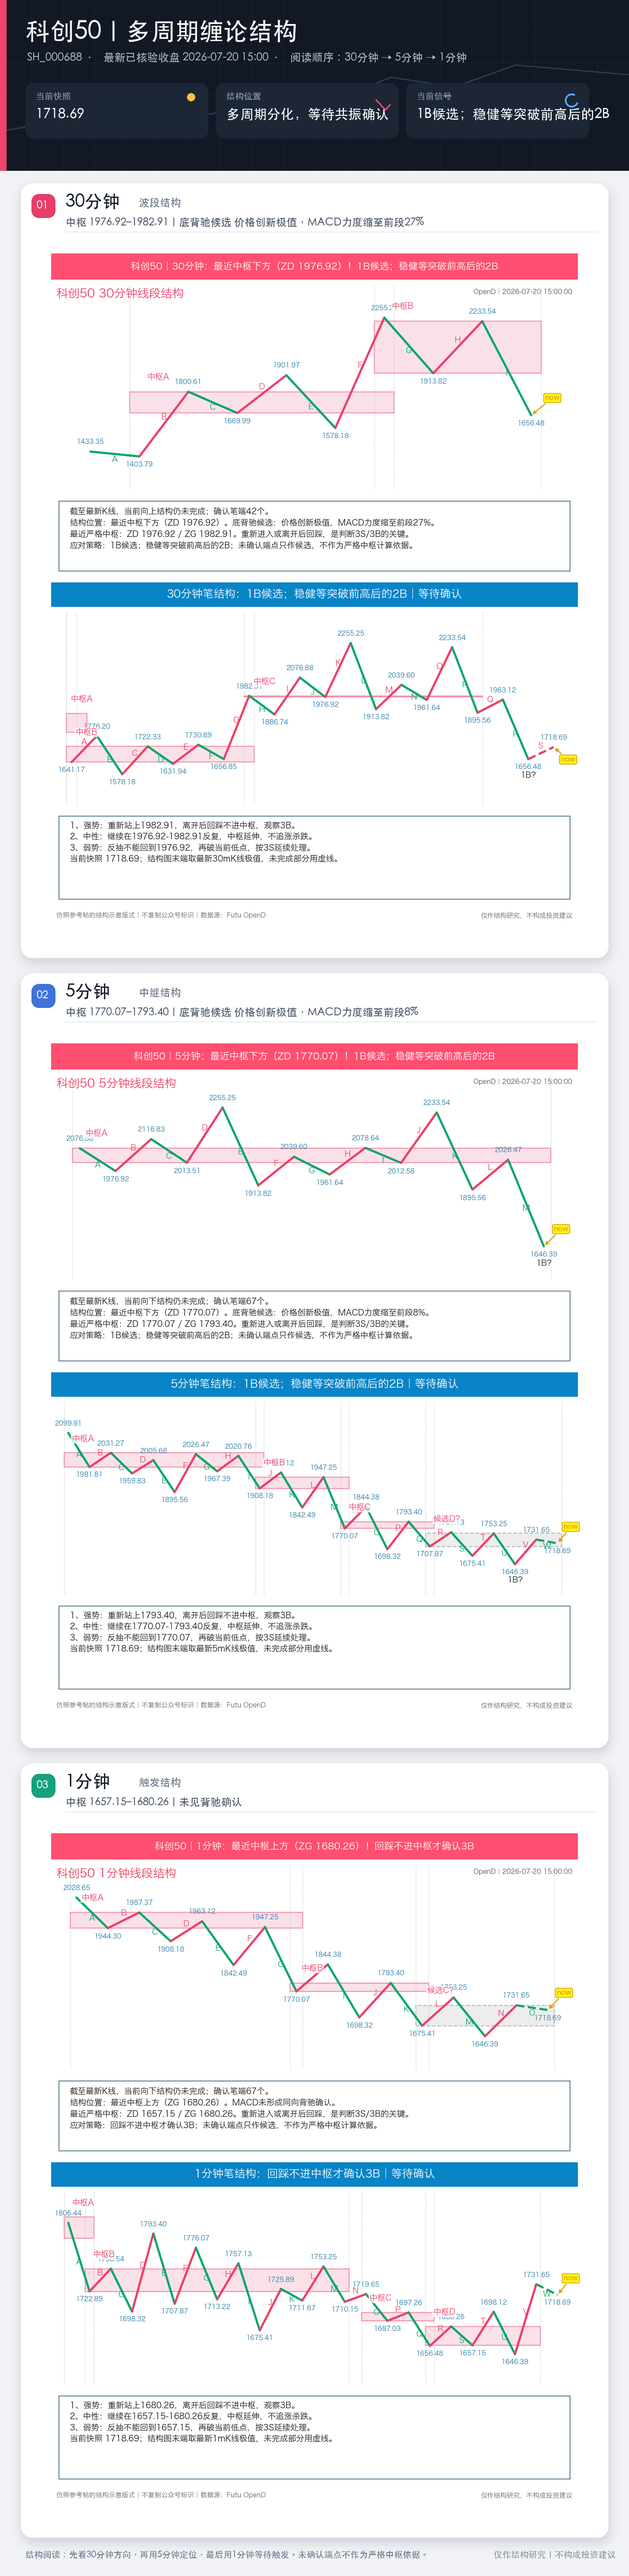
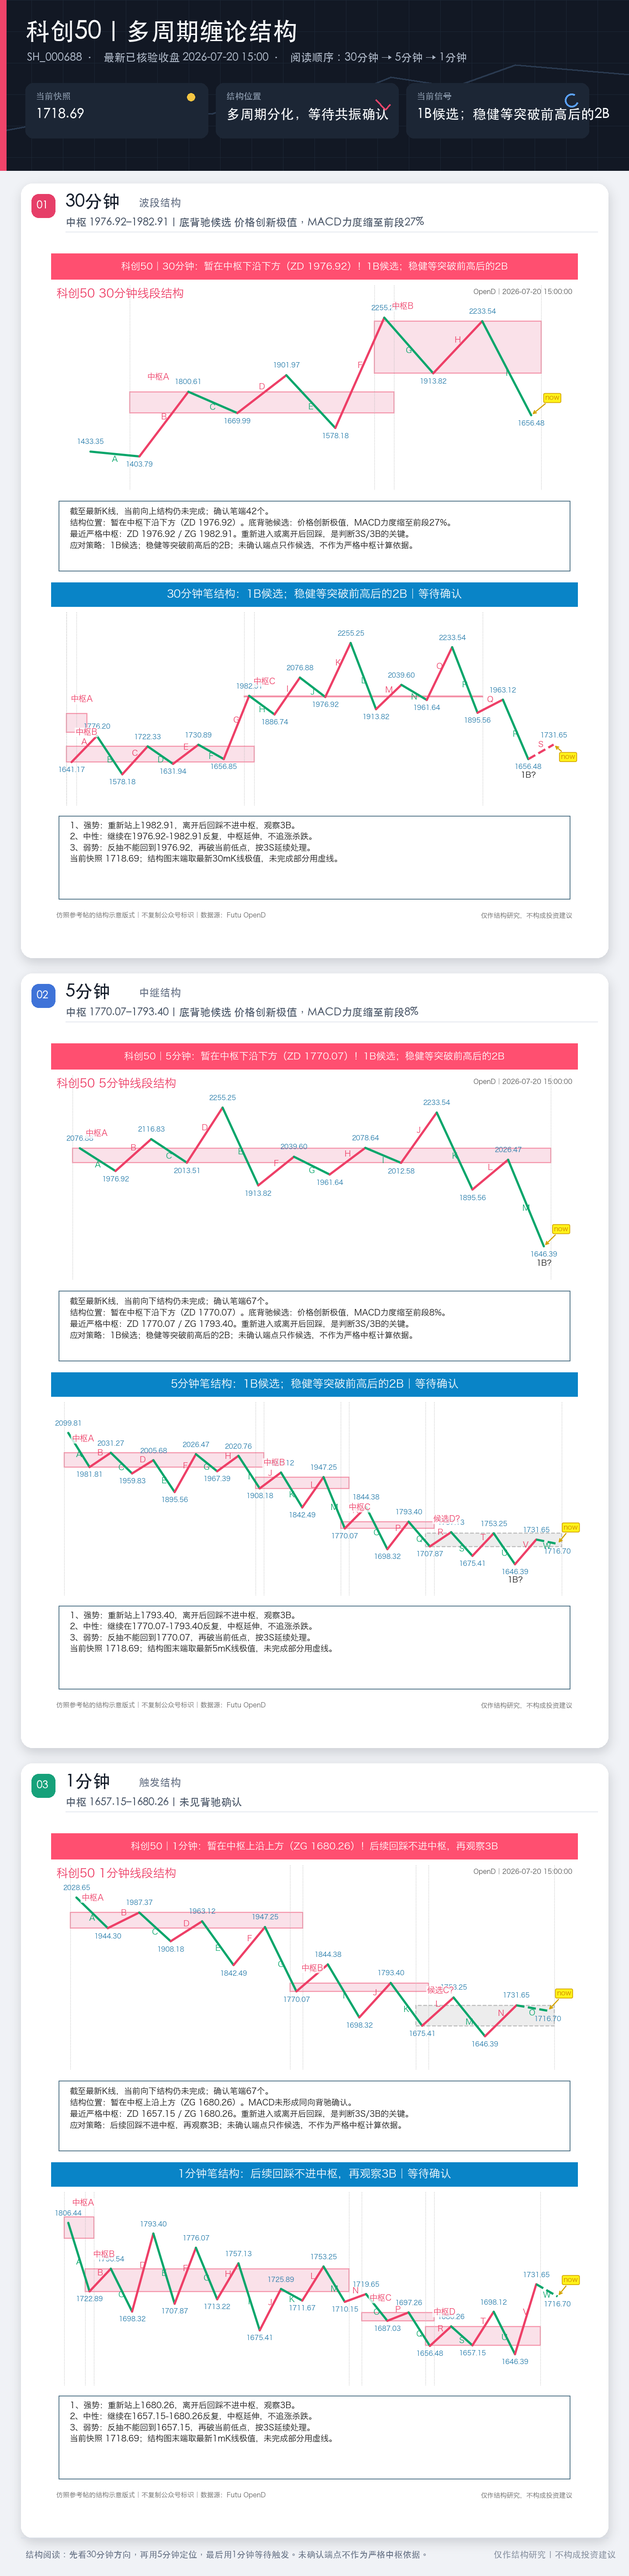
Tighten chanlun unfinished-structure wording

diff --git a/chanlun/index.html b/chanlun/index.html
@@ -205,11 +205,11 @@
                   <strong>3796.28</strong>
                 </div>
               </div>
-              <img src="SH_000001_30m_5m_1m_combined_chanlun.png?v=1784539370" alt="上证指数 合并图">
+              <img src="SH_000001_30m_5m_1m_combined_chanlun.png?v=1784542622" alt="上证指数 合并图">
               <ul class="signals">
-                <li><b>30m</b><span>反抽不回中枢警惕3S</span><em>最近中枢下方（ZD 4073.73）</em></li>
-<li><b>5m</b><span>1B候选；稳健等突破前高后的2B</span><em>最近中枢下方（ZD 3837.88）</em></li>
-<li><b>1m</b><span>回踩不进中枢才确认3B</span><em>最近中枢上方（ZG 3764.89）</em></li>
+                <li><b>30m</b><span>B?观察；等待底分型确认后再判断1B</span><em>暂在中枢下沿下方（ZD 4073.73）</em></li>
+<li><b>5m</b><span>1B候选；稳健等突破前高后的2B</span><em>暂在中枢下沿下方（ZD 3837.88）</em></li>
+<li><b>1m</b><span>后续回踩不进中枢，再观察3B</span><em>暂在中枢上沿上方（ZG 3764.89）</em></li>
               </ul>
               <div class="analysis">
                 <h3>当前点位分析</h3>
@@ -235,11 +235,11 @@
                   <strong>3443.10</strong>
                 </div>
               </div>
-              <img src="SZ_399006_30m_5m_1m_combined_chanlun.png?v=1784539370" alt="创业板指 合并图">
+              <img src="SZ_399006_30m_5m_1m_combined_chanlun.png?v=1784542621" alt="创业板指 合并图">
               <ul class="signals">
-                <li><b>30m</b><span>反抽不回中枢警惕3S</span><em>最近中枢下方（ZD 3824.33）</em></li>
-<li><b>5m</b><span>1B候选；稳健等突破前高后的2B</span><em>最近中枢下方（ZD 3487.99）</em></li>
-<li><b>1m</b><span>回踩不进中枢才确认3B</span><em>最近中枢上方（ZG 3433.79）</em></li>
+                <li><b>30m</b><span>B?观察；等待底分型确认后再判断1B</span><em>暂在中枢下沿下方（ZD 3824.33）</em></li>
+<li><b>5m</b><span>1B候选；稳健等突破前高后的2B</span><em>暂在中枢下沿下方（ZD 3487.99）</em></li>
+<li><b>1m</b><span>后续回踩不进中枢，再观察3B</span><em>暂在中枢上沿上方（ZG 3433.79）</em></li>
               </ul>
               <div class="analysis">
                 <h3>当前点位分析</h3>
@@ -265,11 +265,11 @@
                   <strong>1718.69</strong>
                 </div>
               </div>
-              <img src="SH_000688_30m_5m_1m_combined_chanlun.png?v=1784539370" alt="科创50 合并图">
+              <img src="SH_000688_30m_5m_1m_combined_chanlun.png?v=1784542622" alt="科创50 合并图">
               <ul class="signals">
-                <li><b>30m</b><span>1B候选；稳健等突破前高后的2B</span><em>最近中枢下方（ZD 1976.92）</em></li>
-<li><b>5m</b><span>1B候选；稳健等突破前高后的2B</span><em>最近中枢下方（ZD 1770.07）</em></li>
-<li><b>1m</b><span>回踩不进中枢才确认3B</span><em>最近中枢上方（ZG 1680.26）</em></li>
+                <li><b>30m</b><span>1B候选；稳健等突破前高后的2B</span><em>暂在中枢下沿下方（ZD 1976.92）</em></li>
+<li><b>5m</b><span>1B候选；稳健等突破前高后的2B</span><em>暂在中枢下沿下方（ZD 1770.07）</em></li>
+<li><b>1m</b><span>后续回踩不进中枢，再观察3B</span><em>暂在中枢上沿上方（ZG 1680.26）</em></li>
               </ul>
               <div class="analysis">
                 <h3>当前点位分析</h3>
